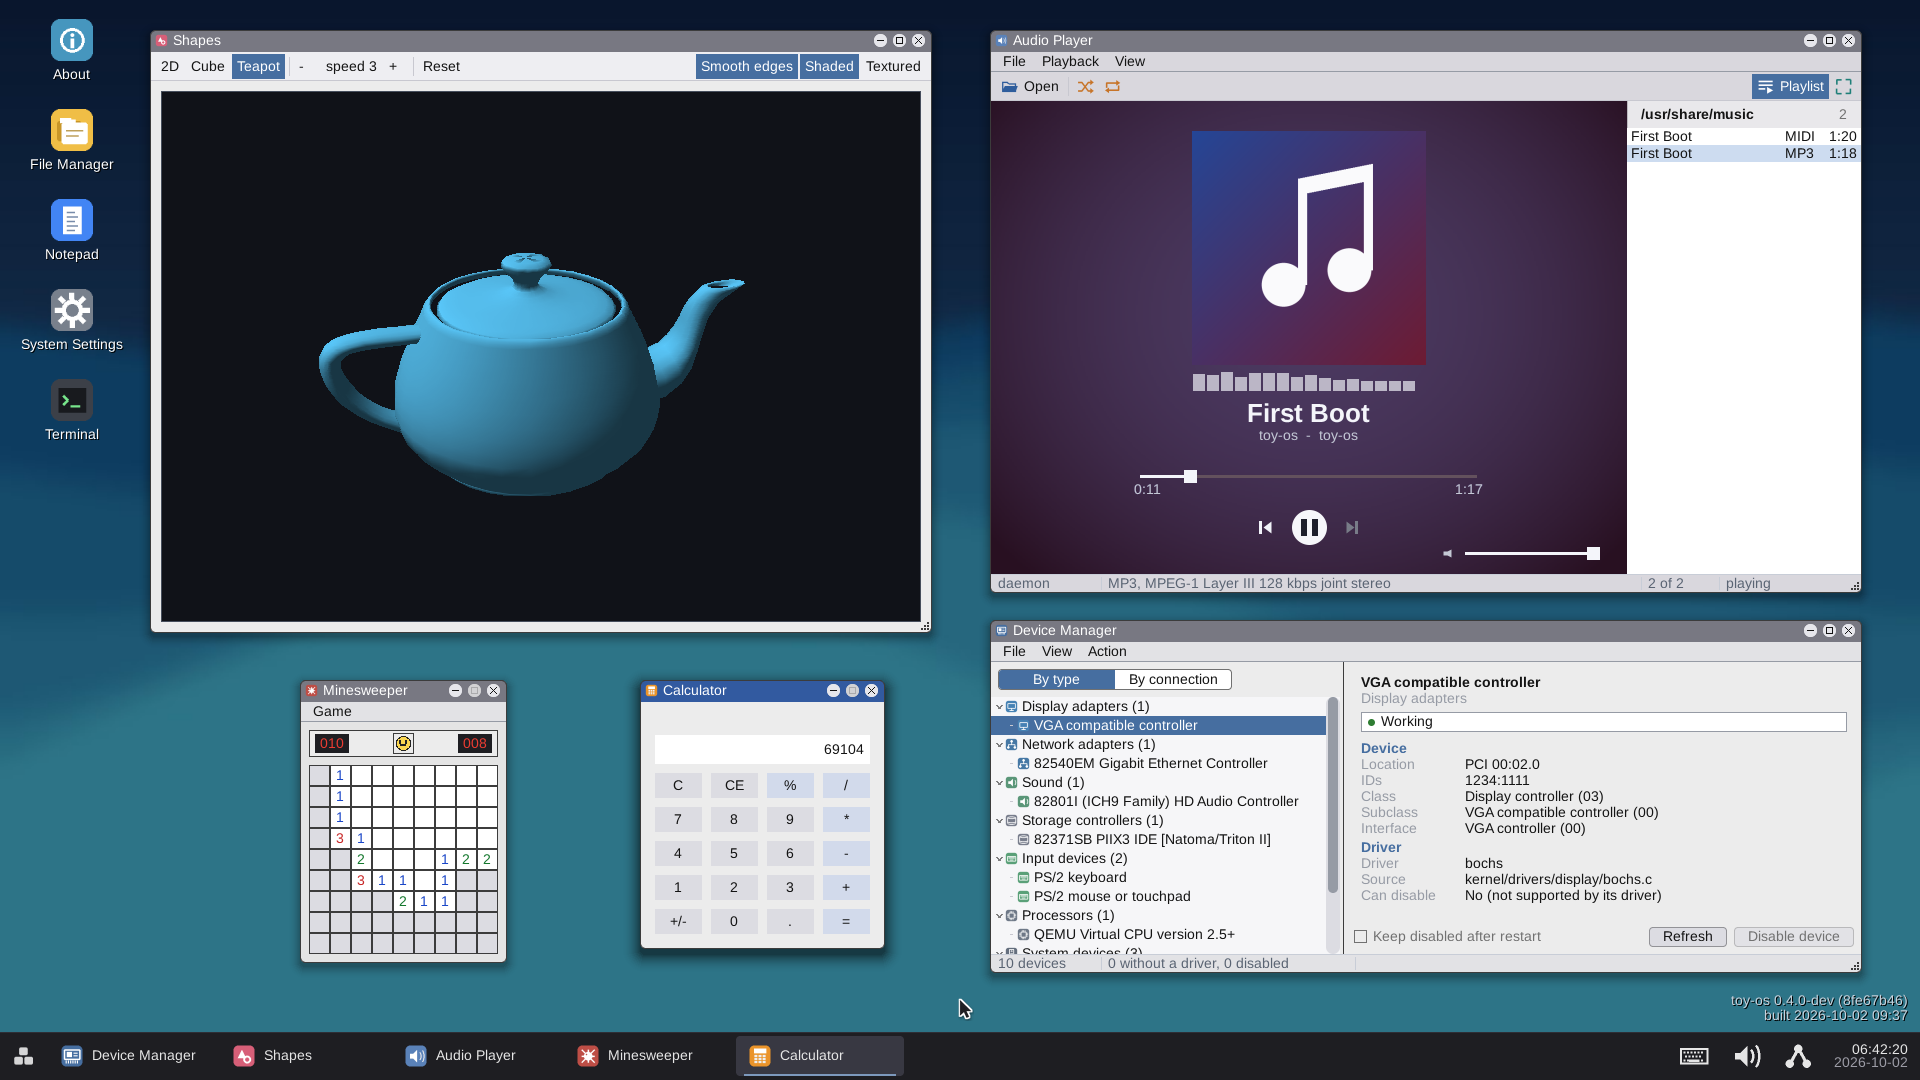
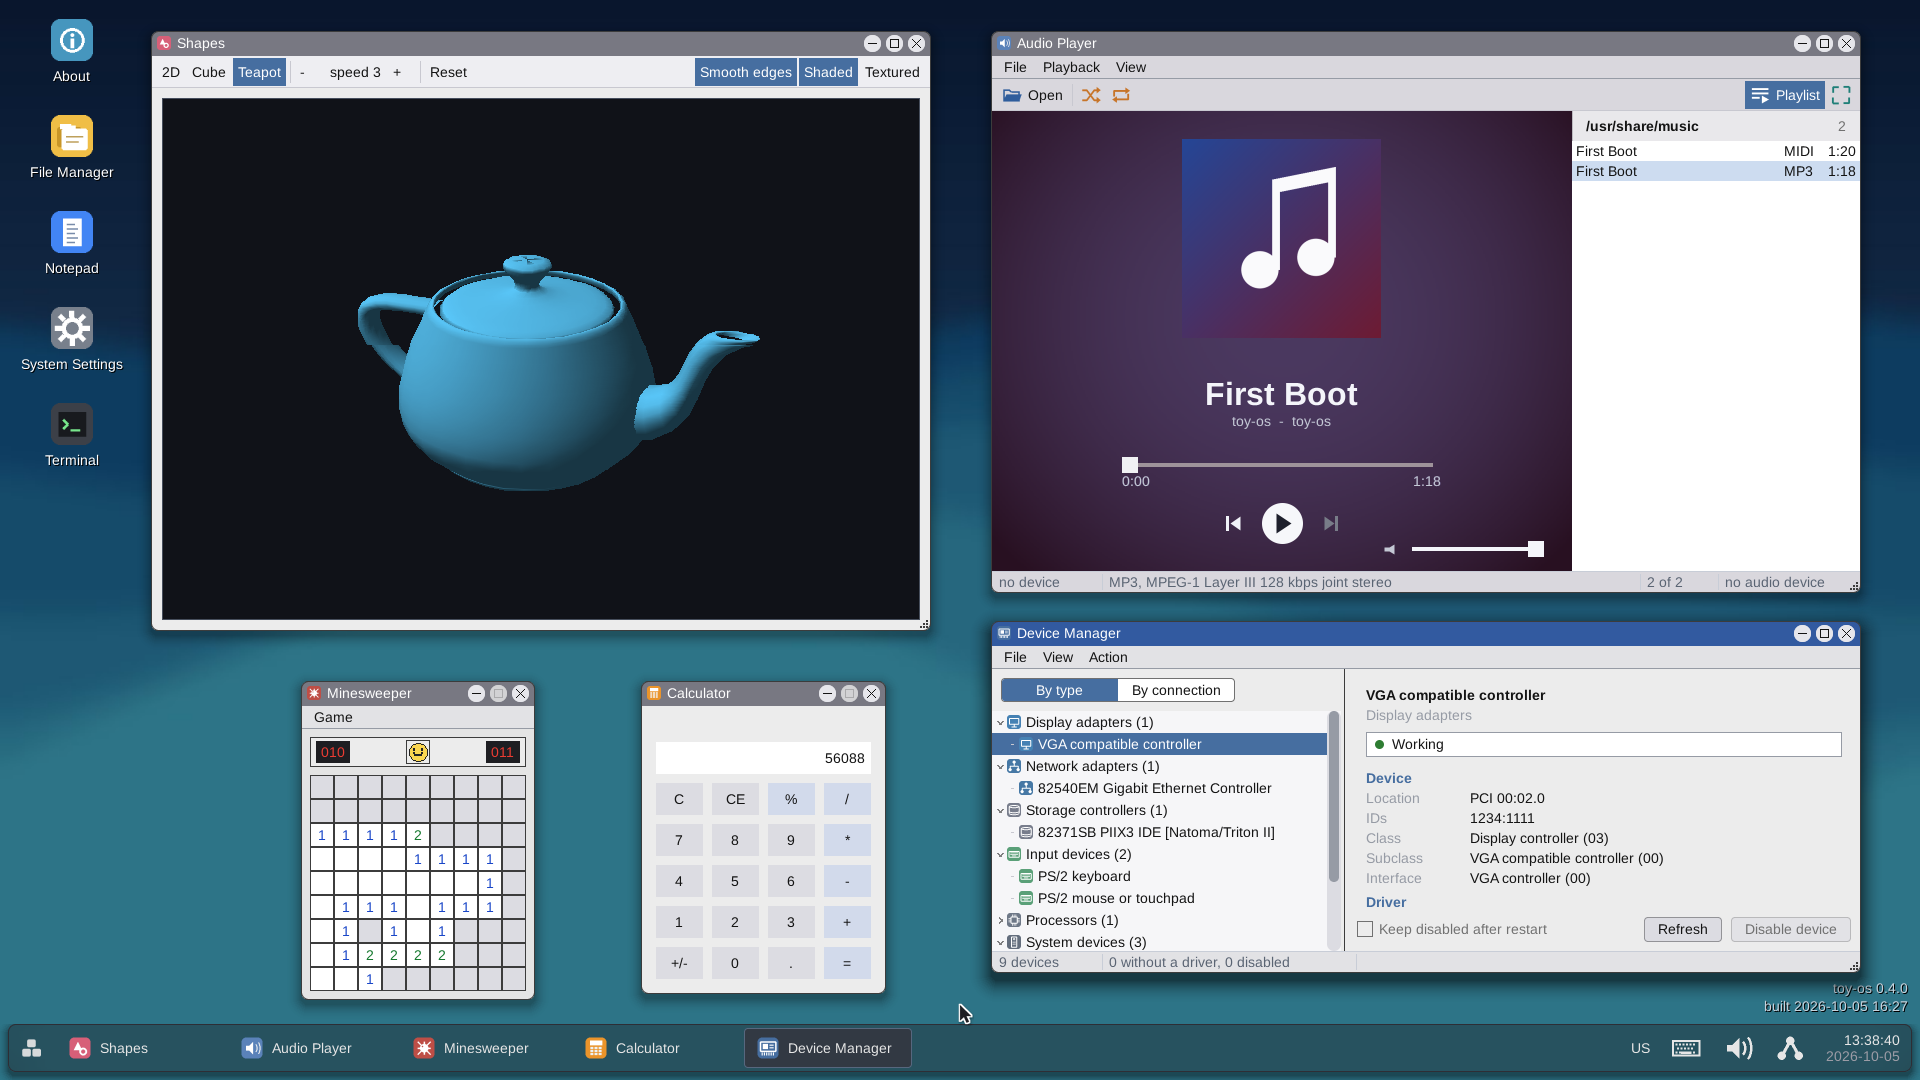
README: new pictures of the 0.4.0 desktop
The README's two pictures showed a 0.4.0-dev build from 2026-10-02.

- The desktop: the Start menu as frosted glass at 70% over the Image
  Viewer, File Manager, DOOM and a Terminal running about and df
- The apps: the floating taskbar, frosted at 40%, under Shapes' teapot,
  the Audio Player, Minesweeper, the Calculator and the Device Manager
- docs/bugs.md: the pointer over the Start menu taking the shape of a
  window edge beneath it, seen while taking them

Files:
- screenshots/readme/desktop.png, apps.png: retaken at 1920x1080
- README.md: alt text
- docs/bugs.md: the cursor entry

diff --git a/docs/bugs.md b/docs/bugs.md
@@ -51,6 +51,7 @@ it has exonerated one this session and convicted another.
 - [ ] **`remote_test.py`'s `the tray item is hidden with nobody connected` and `clicking the item opens the flyout` FAIL.** Measured 2026-10-05: red in 4 runs of 4, and at 9010c96e too (`predates.py`), with `gui remote --json` reporting `sessions: 1` from 10.0.2.2 right after the previous step's `remote exec` closed. Cause not established -- a session the kernel still counts, or a check that asks before the close is folded in
 - [ ] **TWO KTESTS FAIL NOW AND THEN: `a slot is reusable after the process is reaped` (`FAIL: exited`, `kernel/proc/sched_test.c`) and tfs3's warm-create read count (`(r1 - r0) <= 5u * WARM`).** Measured 2026-10-05 on a tree whose `kernel/` matched 9010c96e: the first in 3 of 10 `ktest_run.py` runs, the second in 1 of 10, all four within half an hour of the host booting; the six runs after that were clean. Cause not established
 - [ ] **ON THE ASUS A DRAGGED WINDOW'S BOTTOM PART MOVES "LIKE JELLY", NOT AT THE SAME PACE AS THE TOP.** Reported 2026-10-05 on bca77bef (three scanouts, every present a flip, drag frames ~21 ms). Measured: `gui present full on` (every frame copies the whole screen) does NOT stop it, so the buffer-age catch-up in `ugfx_screen_present()` is ruled out; the kernel log has no `no free buffer` or `DSPSURFLIVE matches no scanout` line, so the rotation never handed back the buffer on screen; the flip is one DSPSURF write latched at vblank, plane control 0x98000000 (no async flip). NOT known whether it predates bca77bef, which made drags ~5x more frames. Cause NOT established; next evidence is a slow-motion phone video (a tear is a sharp line at one height, panel smear is soft, pointer lag moves the whole window) **Measured 2026-10-05 from two slow-motion phone videos (240 and 120 fps) of a drag:** the window's left edge read at three heights in 160 consecutive 240 fps frames -- each new position sweeps top to bottom over ~2 camera frames (~8 ms, the panel scanning out) and then all three heights AGREE, every refresh; the window advances on nearly every 60 Hz refresh by 12-18 px. So every refresh shows one whole, vblank-latched frame: no tear and no stale band. The leading explanation is the eye tracking a moving window across the panel's top-to-bottom scan, which any OS on this panel shares -- NOT yet compared against Linux or Windows on the same laptop, which is what would settle it
+- [ ] **OVER THE START MENU, THE POINTER TAKES THE SHAPE OF THE WINDOW EDGE BENEATH IT.** Seen 2026-10-05 taking the README pictures: with the Start menu open over the Image Viewer, the pointer on the menu's Help row showed a vertical-resize arrow exactly over the Image Viewer's bottom edge, which lies under the menu. The cursor shape is chosen from the window under the pointer without asking whether an overlay covers it. Not yet reproduced by a tool
 - [ ] **`damage_sweep.py --random 40` NOW AND THEN REPORTS A VIOLATION AT `close Calculator`, AT THE TASKBAR BUTTONS AND INSIDE THE DAMAGE BOX.** Measured 2026-10-05 under KVM, seeds 1-4 in rotation, a fresh image per run: **2 runs in 20 on main (283ecc5a)** -- seed 3 `[25]`, 563 px at `(233,685 86x22)`; seed 4 `[13]`, 555 px at `(61,685 77x22)` -- and 0 in 20 on the visible-regions branch run beside it, so it predates that work (earlier: 3 in 28 on the branch's builds, with the same rects). The verifier calls the scene stable every time. The pixels are a taskbar button's label row after a close, where the buttons glide, so a draw that advances the glide between the two renders would explain it -- **cause NOT established**
 - [ ] **`player_test.py`'s `clicking the left of the volume scale sets it low` REPORTED 100 IN 2 FULL RUNS OF 4.** Measured 2026-10-05: red in 2 of the day's 4 full `gui_regress.py` runs (the visible-regions branch, and main at 11db0689 after the keyboard work), green 4 of 4 alone on the branch and 4 of 4 alone on main. The value is the app's own state, not pixels; the test's comment documents a warp-then-click trap where the motion after the press drags the scale back, and load would widen it. Cause not established
 - [ ] **`start_menu_test.py`'s `the caret blinks` SEES ONE DISTINCT FRAME OF SIX.** Measured 2026-10-03 at 3a12d393: 3 in 10 full `gui_regress.py` runs and 2 in 6 alone (`flake_hunt.py startmenu`), the same detail each time (`1 distinct frames of 6`). Cause not established -- whether the caret stopped blinking or the six samples landed in one phase is not known.

diff --git a/README.md b/README.md
@@ -26,8 +26,8 @@
 > [docs/decisions.md](docs/decisions.md).
 
 <p align="center">
-  <img src="screenshots/readme/desktop.png" alt="toy-os desktop: the Start menu open on All Apps, over the Image Viewer, the File Manager, DOOM and a Terminal" width="49%">
-  <img src="screenshots/readme/apps.png" alt="toy-os apps: a shaded teapot in Shapes, an MP3 playing in the Audio Player, Minesweeper, the Calculator and the Device Manager showing each device's driver" width="49%">
+  <img src="screenshots/readme/desktop.png" alt="toy-os desktop: the Start menu, frosted glass, open on All Apps over the Image Viewer, the File Manager, DOOM and a Terminal" width="49%">
+  <img src="screenshots/readme/apps.png" alt="toy-os apps on the floating, frosted taskbar: a shaded teapot in Shapes, the Audio Player, Minesweeper, the Calculator and the Device Manager" width="49%">
 </p>
 
 <p align="center">
